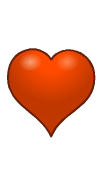
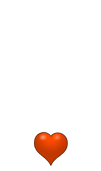
Life implementation

diff --git a/js/engine.js b/js/engine.js
@@ -96,6 +96,9 @@ var Engine = (function(global) {
         allEnemies.forEach(function(enemy) {
             enemy.update(dt);
         });
+        allLives.forEach(function(life) {
+          life.update(dt);
+        });
         player.update();
     }
 
@@ -135,8 +138,9 @@ var Engine = (function(global) {
           player.startPosition();
           door.startPosition();
           key.startPosition();
+          allLives.length < 1 ? gameOver() : allLives.pop();
+          console.log(allLives.length);
           player.key = false;
-          lives--;
         }
       }
 
@@ -264,7 +268,9 @@ var Engine = (function(global) {
     }
 
     function gameOver() {
-
+      console.log("GAME OVER");
+      reset();
+      clearEnemies();
     }
 
     function clear() {
@@ -273,14 +279,20 @@ var Engine = (function(global) {
 
     }
 
+    function clearEnemies() {
+      for (var i = 0; i < allEnemies.length; i++) {
+        allEnemies.pop();
+      }
+      for (i = 0; i < allEnemies.length; i++) {
+        allEnemies.pop();
+      }
+    }
     function winning() {
       // Set the H3 tag with level id to empty
       $("#level").text("");
 
       clear();
-      for (i = 0; i < allEnemies.length; i++) {
-        allEnemies.pop();
-      }
+      clearEnemies();
       for (i = 0; i < allPlayers.length; i++) {
         allPlayers.pop();
       }

diff --git a/js/app.js b/js/app.js
@@ -180,8 +180,29 @@ Door.prototype.openDoor = function() {
 };
 
 /*
-**PRINCESS
+** PRINCESS
 */
+
+
+/*
+** LIVES
+*/
+var Life = function(x, y, sprite) {
+  Item.call(this, x, y, sprite);
+  this.x = 0;
+  this.y = 5 * vertical;
+  this.sprite = 'images/Heart.png';
+};
+
+createSubClass(Item, Life);
+
+// Life.prototype.render = function() {
+//   ctx.drawImage(Resources.get(this.sprite), this.x, this.y, 50, 50);
+// };
+
+Life.prototype.update = function(dt) {
+
+};
 
 // Now instantiate your objects.
 // Place all enemy objects in an array called allEnemies
@@ -211,13 +232,15 @@ key.startPosition();
 door.startPosition();
 
 // Create lives container
-var allLives = function() {
+var createLives = function(l) {
   var livesHolder = [];
-  for (i = 0; i < lives; i++) {
-    livesHolder.push(new Item(i + horisontal, -50, 'images/Heart.png'));
+  for (i = 0; i < l; i++) {
+    livesHolder.push(new Life());
+    livesHolder[i].x = i * horisontal;
   }
   return livesHolder;
-}
+};
+var allLives = createLives(lives);
 
 // This listens for key presses and sends the keys to your
 // Player.handleInput() method. You don't need to modify this.
